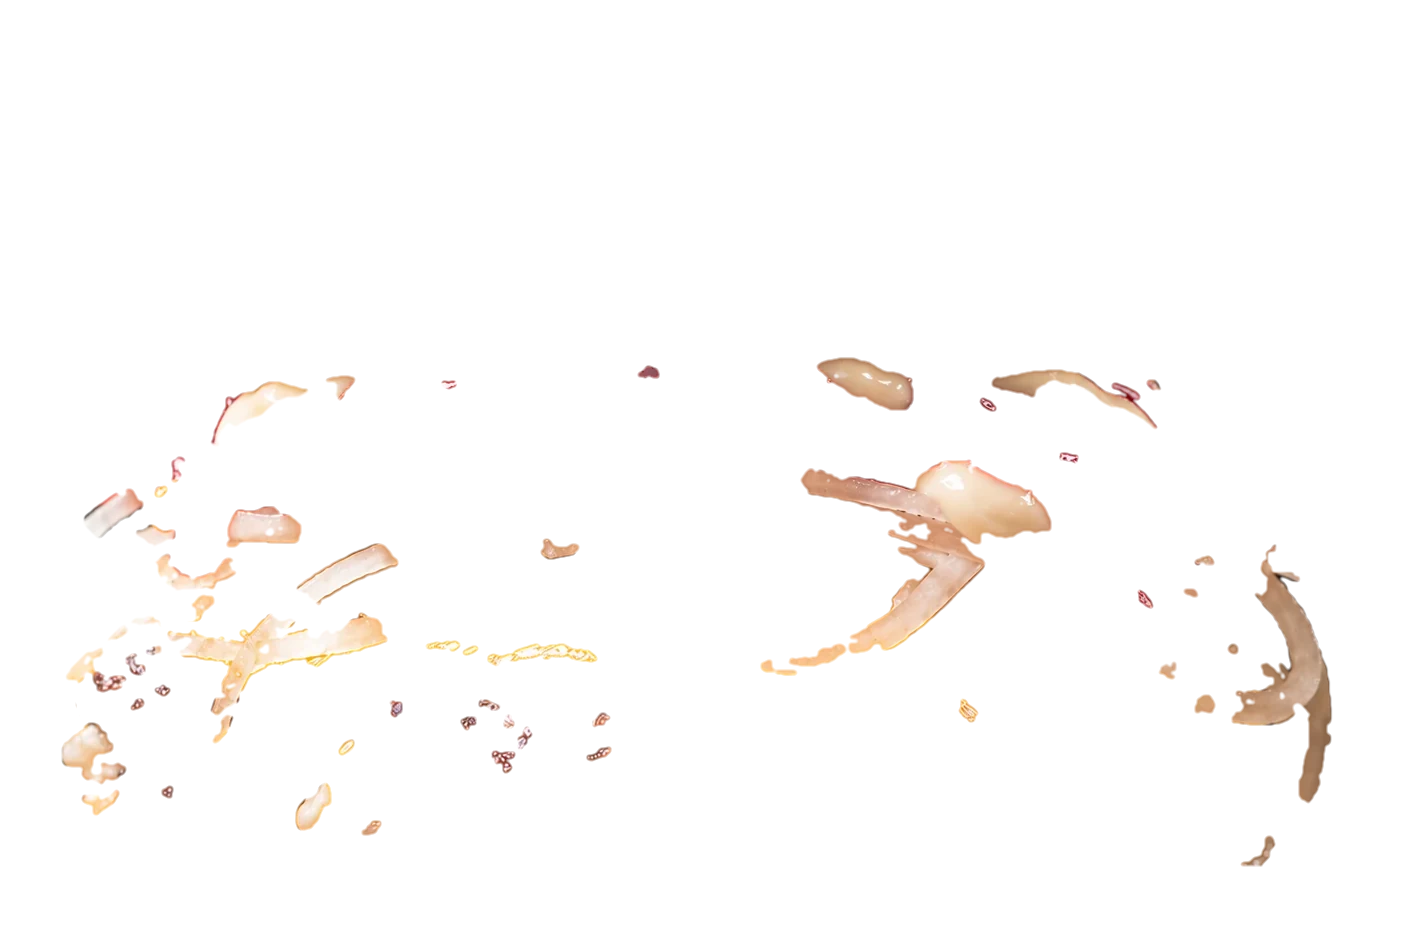
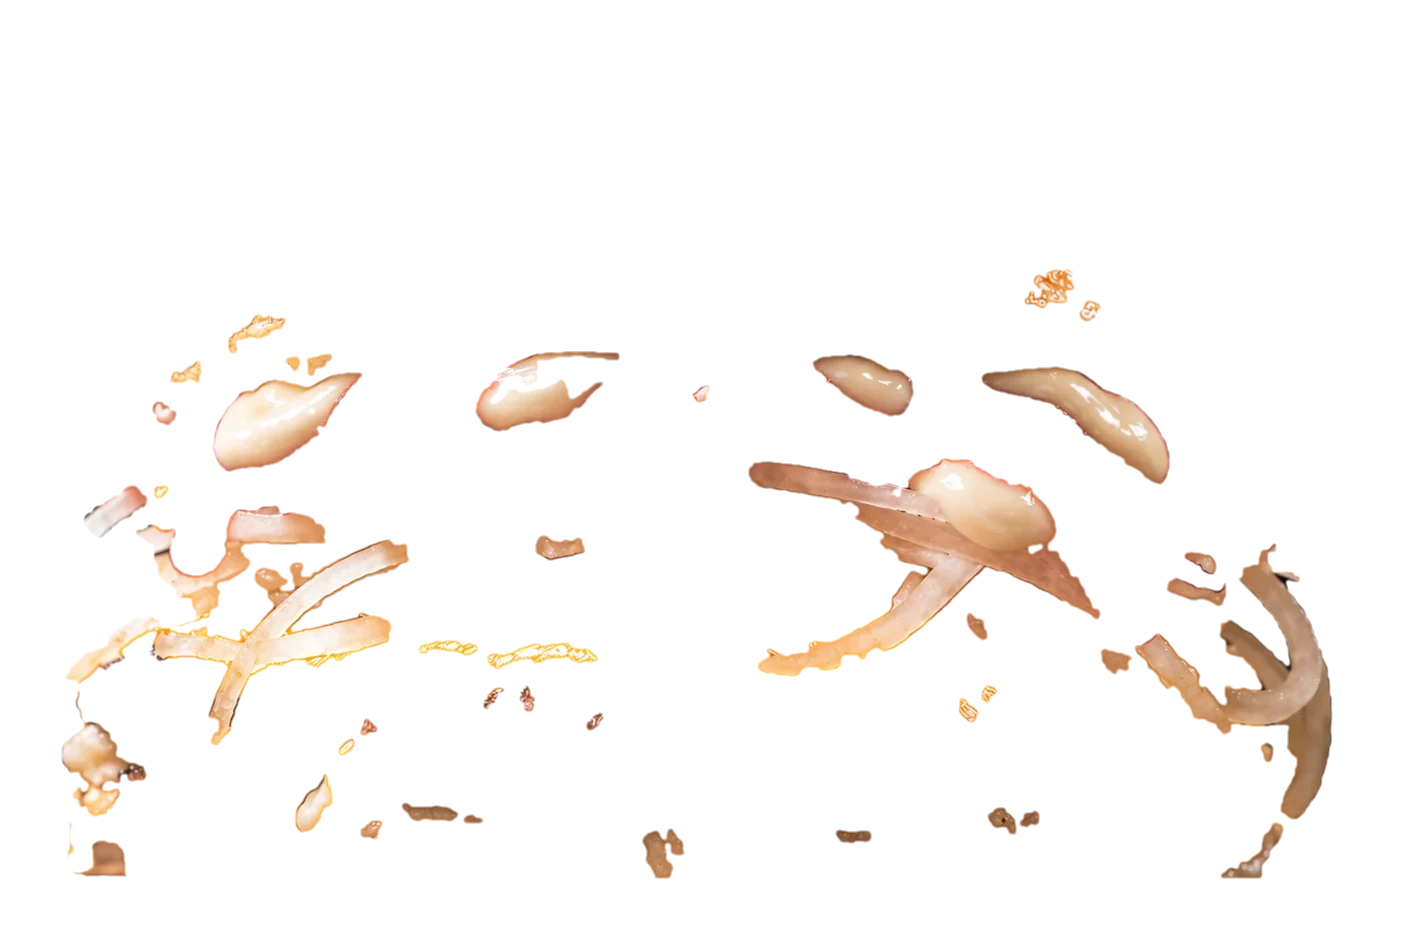
Foto viva: sin reflejos ni particulas ambientales, burger mas grande; extraccion real de cheddar, cebolla, lactonesa y ketchup con movimiento propio y resaltado

diff --git a/src/PixiPhotoBurger.jsx b/src/PixiPhotoBurger.jsx
@@ -30,7 +30,13 @@ export const PHOTO_BURGERS = {
       bacon:     { f: 'bacon.png',   at: [0.5, 0.44] },
     },
     // extracción REAL: sprite con los píxeles de la foto base del ingrediente (sale de su lugar de verdad)
-    extract: { cheddar: { f: 'ext-cheddar.webp', pivot: [0.48, 0.714] } },
+    // kind: elastic (queso: se estira y se despega) · light (cebolla: liviana, flota) · sauce (salsa: se retrae)
+    extract: {
+      cheddar:   { f: 'ext-cheddar.webp',   pivot: [0.48, 0.714],  kind: 'elastic' },
+      cebolla:   { f: 'ext-cebolla.webp',   pivot: [0.508, 0.606], kind: 'light' },
+      lactonesa: { f: 'ext-lactonesa.webp', pivot: [0.459, 0.469], kind: 'sauce' },
+      ketchup:   { f: 'ext-ketchup.webp',   pivot: [0.468, 0.492], kind: 'sauce' },
+    },
     steam: { x: 0.5, y: 0.49, w: 0.5 },
     // zonas que reciben el brillo (fracciones de la foto): pan y cheddar
     glints: [{ x: 0.1, y: 0.02, w: 0.8, h: 0.36 }, { x: 0.08, y: 0.63, w: 0.84, h: 0.15 }],
@@ -60,7 +66,10 @@ const removedOf = (cfg, quitados) => {
   return s;
 };
 
-const DW = 300; const DH = 340; const BASE_Y = 282;
+const DW = 300; const DH = 276; const BASE_Y = 250;
+// Partículas y reflejos ambientales (bokeh, polvo, destellos, vapor, brasas, luz que sigue al dedo).
+// Apagados: la burger es la protagonista. Cambiar a true para reactivarlos.
+const AMBIENT = false;
 
 const radial = (stops) => new FillGradient({
   type: 'radial', center: { x: 0.5, y: 0.5 }, innerRadius: 0, outerCenter: { x: 0.5, y: 0.5 }, outerRadius: 0.5,
@@ -229,7 +238,7 @@ function build(st, app, cfg, isLite, host, cleanups) {
   const root = new Container(); app.stage.addChild(root); st.root = root;
 
   const glow = new Graphics().circle(0, 0, 150).fill(radial([[0, 'rgba(255,170,60,0.5)'], [0.6, 'rgba(255,120,30,0.14)'], [1, 'rgba(255,100,20,0)']]));
-  glow.position.set(DW / 2, 190); glow.blendMode = 'add'; root.addChild(glow); st.glow = glow;
+  glow.position.set(DW / 2, 140); glow.blendMode = 'add'; root.addChild(glow); st.glow = glow;
 
   // plato oscuro con brillo en el borde (la burger apoya sobre él)
   const plate = new Graphics();
@@ -242,7 +251,7 @@ function build(st, app, cfg, isLite, host, cleanups) {
   // bokeh que flota detrás (reemplaza al fondo de la foto)
   const bokehTex = app.renderer.generateTexture(new Graphics().circle(0, 0, 20).fill(radial([[0, 'rgba(255,214,140,0.85)'], [0.7, 'rgba(255,170,70,0.35)'], [1, 'rgba(255,150,50,0)']])));
   st.bokeh = [];
-  const BN = isLite ? 7 : 14;
+  const BN = AMBIENT ? (isLite ? 7 : 14) : 0;
   for (let i = 0; i < BN; i++) {
     const sp = new Sprite(bokehTex); sp.anchor.set(0.5); sp.blendMode = 'add'; root.addChildAt(sp, 1);
     st.bokeh.push({ sp, x: Math.random() * DW, y: 20 + Math.random() * 230, z: 0.4 + Math.random() * 1.0, ph: Math.random() * 6, sz: 0.5 + Math.random() * 1.2 });
@@ -288,13 +297,13 @@ function build(st, app, cfg, isLite, host, cleanups) {
     gsap.to(glint, { x: DW / 2 + st.photoW / 2 + 10, duration: 1.3, ease: 'power1.inOut' });
     gsap.to(glint, { alpha: 0, duration: 0.3, delay: 1.1 });
   };
-  const sweepTimer = setInterval(sweep, 5200); setTimeout(sweep, 1400);
+  const sweepTimer = AMBIENT ? setInterval(sweep, 5200) : 0; if (AMBIENT) setTimeout(sweep, 1400);
   cleanups.push(() => { clearInterval(sweepTimer); gsap.killTweensOf(glint); });
 
   // vapor
   const steamTex = app.renderer.generateTexture(new Graphics().circle(0, 0, 22).fill(radial([[0, 'rgba(255,255,255,0.5)'], [1, 'rgba(255,255,255,0)']])));
   const steam = new Container(); root.addChild(steam); st.steam = [];
-  const N = isLite ? 4 : 8;
+  const N = AMBIENT ? (isLite ? 4 : 8) : 0;
   for (let i = 0; i < N; i++) {
     const s = new Sprite(steamTex); s.anchor.set(0.5); s.alpha = 0; steam.addChild(s);
     st.steam.push({ s, t: i / N, sp: 0.1 + Math.random() * 0.05, dx: (Math.random() - 0.5), ph: Math.random() * 6 });
@@ -302,7 +311,7 @@ function build(st, app, cfg, isLite, host, cleanups) {
   // brasas
   const emTex = app.renderer.generateTexture(new Graphics().circle(0, 0, 5).fill(radial([[0, 'rgba(255,230,150,1)'], [0.4, 'rgba(255,150,40,0.7)'], [1, 'rgba(255,90,10,0)']])));
   const em = new Container(); root.addChild(em); st.embers = [];
-  const M = isLite ? 5 : 10;
+  const M = AMBIENT ? (isLite ? 5 : 10) : 0;
   for (let i = 0; i < M; i++) {
     const s = new Sprite(emTex); s.anchor.set(0.5); s.blendMode = 'add'; s.alpha = 0; em.addChild(s);
     st.embers.push({ s, t: Math.random(), sp: 0.1 + Math.random() * 0.12, x0: DW / 2 + (Math.random() - 0.5) * 230, sz: 0.4 + Math.random() * 0.6, ph: Math.random() * 6 });
@@ -317,12 +326,12 @@ function build(st, app, cfg, isLite, host, cleanups) {
   const dotTex = app.renderer.generateTexture(new Graphics().circle(0, 0, 4).fill(radial([[0, 'rgba(255,225,150,1)'], [1, 'rgba(255,190,70,0)']])));
   const fxTop = new Container(); root.addChild(fxTop); st.fxTop = fxTop;
   st.dust = [];
-  const DN = isLite ? 10 : 22;
+  const DN = AMBIENT ? (isLite ? 10 : 22) : 0;
   for (let i = 0; i < DN; i++) {
     const sp = new Sprite(dotTex); sp.anchor.set(0.5); sp.blendMode = 'add'; sp.alpha = 0; fxTop.addChild(sp);
     st.dust.push({ sp, x: Math.random(), y: Math.random(), vx: (Math.random() - 0.5) * 0.02, vy: -0.01 - Math.random() * 0.03, ph: Math.random() * 6, sz: 0.35 + Math.random() * 0.8 });
   }
-  st.twinkles = (cfg.stars || []).map(([fx, fy], i) => {
+  st.twinkles = (AMBIENT ? (cfg.stars || []) : []).map(([fx, fy], i) => {
     const sp = new Sprite(starTex); sp.anchor.set(0.5); sp.blendMode = 'add'; sp.alpha = 0; fxTop.addChild(sp);
     return { sp, fx, fy, ph: i * 1.7 };
   });
@@ -397,14 +406,14 @@ function build(st, app, cfg, isLite, host, cleanups) {
         q.sp.x = left + q.fx * W; q.sp.y = top + q.fy * H; q.sp.alpha = v; q.sp.scale.set(0.35 + v * 0.9); q.sp.rotation = Math.sin(t * 0.7 + q.ph) * 0.3;
       });
       st.spot.x = DW / 2 + st.parallax.x * W * 0.42; st.spot.y = top + H * (0.45 + st.parallax.y * 0.35);
-      st.spot.alpha = 0.4 + st.flare * 0.5;
+      st.spot.alpha = AMBIENT ? 0.4 + st.flare * 0.5 : 0;
     }
     st.bokeh.forEach((b) => {
       b.sp.x = b.x + Math.sin(t * 0.25 + b.ph) * 10 - st.parallax.x * 10 * b.z; b.sp.y = b.y + Math.cos(t * 0.2 + b.ph) * 6 - st.parallax.y * 6 * b.z;
       b.sp.scale.set(b.sz * (1 + Math.sin(t * 0.8 + b.ph) * 0.08)); b.sp.alpha = (0.28 + 0.2 * Math.sin(t * 0.6 + b.ph)) * (0.6 + st.flare * 0.5);
     });
     st.flare = Math.max(0, st.flare - dt * 1.5);
-    glow.alpha = 0.75 + Math.sin(t * 1.6) * 0.1 + st.flare * 0.35;
+    glow.alpha = (AMBIENT ? 0.75 : 0.42) + Math.sin(t * 1.6) * 0.06 + st.flare * 0.25;
     const sb = st.steamBase || { x: DW / 2, y: 140, w: 120 };
     st.steam.forEach((p) => {
       p.t += dt * p.sp * 3; if (p.t > 1) { p.t = 0; p.dx = Math.random() - 0.5; }
@@ -511,38 +520,68 @@ async function extractMove(st, cfg, key, removing, res) {
   if (!st.ready) return true;
   const W = st.photoW; const H = st.photoH;
   const P = { x: (def.pivot[0] - 0.5) * W, y: -(1 - def.pivot[1]) * H };
-  const ec = new Container(); ec.position.set(P.x, P.y);
-  const sp = new Sprite(tex); sp.anchor.set(0.5, 1); sp.width = W; sp.height = H; sp.position.set(-P.x, -P.y);
-  ec.addChild(sp); st.wrap.addChild(ec);
+  const mk = () => {
+    const c = new Container(); c.position.set(P.x, P.y);
+    const sp = new Sprite(tex); sp.anchor.set(0.5, 1); sp.width = W; sp.height = H; sp.position.set(-P.x, -P.y);
+    c.addChild(sp); return { c, sp };
+  };
+  const { c: ec } = mk(); st.wrap.addChild(ec);
+  // 1) selección: contorno dorado que "enciende" el ingrediente
+  const hl = mk(); hl.sp.tint = 0xffd27a; hl.c.blendMode = 'add'; hl.c.alpha = 0; st.wrap.addChild(hl.c);
   const rx = DW / 2 + P.x; const ry = BASE_Y + P.y;
   const baseTex = st.ok.get('base');
-  const fin = () => { try { ec.destroy({ children: true }); } catch { /* noop */ } };
+  const fin = () => { try { ec.destroy({ children: true }); hl.c.destroy({ children: true }); } catch { /* noop */ } };
+  const kind = def.kind || 'elastic';
   await new Promise((resolve) => {
     if (removing) {
-      // la foto "sin ingrediente" queda debajo; el sprite real se despega y se va
+      // la foto "sin ingrediente" queda debajo; el sprite real se despega
       setPhoto(st, st.spA, res.tex); st.spA.alpha = 1; st.spB.alpha = 0;
       const tl = gsap.timeline({ onComplete: () => { fin(); resolve(); } });
-      tl.to(ec.scale, { x: 0.99, y: 1.1, duration: 0.14, ease: 'power2.out' }, 0)          // se estira antes de soltarse
-        .to(ec, { y: P.y - 8, duration: 0.14, ease: 'power2.out' }, 0)
-        .to(ec, { y: P.y - 50, rotation: -0.06, duration: 0.55, ease: 'power3.out' }, 0.12)  // sube en arco
-        .to(ec.scale, { x: 1.05, y: 0.92, duration: 0.4, ease: 'power1.out' }, 0.2)
-        .to(ec, { alpha: 0, duration: 0.3, ease: 'power1.in' }, 0.36)                         // se desvanece
-        .add(() => magicBurst(st, rx, ry - 30, 0.55), 0.38)
-        .to(st.sq, { x: 1.014, y: 0.986, duration: 0.12, ease: 'power2.out' }, 0.2)           // la burger se acomoda
-        .to(st.sq, { x: 1, y: 1, duration: 0.5, ease: 'elastic.out(1,0.5)' }, 0.32);
+      tl.to(hl.c, { alpha: 0.85, duration: 0.09, ease: 'power1.out' }, 0)
+        .to(hl.c.scale, { x: 1.012, y: 1.012, duration: 0.2 }, 0)
+        .to(hl.c, { alpha: 0, duration: 0.22, ease: 'power1.in' }, 0.09);
+      if (kind === 'elastic') {
+        tl.to(ec.scale, { x: 0.99, y: 1.11, duration: 0.15, ease: 'power2.out' }, 0.06)       // se estira antes de soltarse
+          .to(ec, { y: P.y - 7, duration: 0.15, ease: 'power2.out' }, 0.06)
+          .to(ec, { y: P.y - 54, rotation: -0.06, duration: 0.6, ease: 'power3.out' }, 0.2)
+          .to(ec.scale, { x: 1.06, y: 0.9, duration: 0.42, ease: 'power1.out' }, 0.26)
+          .to(ec, { alpha: 0, duration: 0.32, ease: 'power1.in' }, 0.44);
+      } else if (kind === 'light') {
+        tl.to(ec, { y: P.y - 5, duration: 0.12, ease: 'power2.out' }, 0.06)
+          .to(ec, { y: P.y - 40, x: P.x + 14, duration: 0.7, ease: 'power2.out' }, 0.16)
+          .to(ec, { rotation: 0.1, duration: 0.35, ease: 'sine.inOut', yoyo: true, repeat: 1 }, 0.16)   // aletea
+          .to(ec.scale, { x: 1.05, y: 1.05, duration: 0.6 }, 0.16)
+          .to(ec, { alpha: 0, duration: 0.36, ease: 'power1.in' }, 0.42);
+      } else { // sauce: la salsa se retrae sobre sí misma
+        tl.to(ec.scale, { x: 1.04, y: 1.18, duration: 0.1, ease: 'power2.out' }, 0.06)
+          .to(ec.scale, { x: 0.55, y: 0.3, duration: 0.4, ease: 'power3.in' }, 0.16)
+          .to(ec, { y: P.y + 5, alpha: 0, duration: 0.34, ease: 'power1.in' }, 0.24);
+      }
+      tl.add(() => magicBurst(st, rx, ry - (kind === 'sauce' ? 6 : 28), 0.5), 0.4)
+        .to(st.sq, { x: 1.014, y: 0.986, duration: 0.12, ease: 'power2.out' }, 0.22)          // la burger se acomoda
+        .to(st.sq, { x: 1, y: 1, duration: 0.5, ease: 'elastic.out(1,0.5)' }, 0.34);
     } else {
-      // volver a poner: el sprite cae desde arriba a su lugar exacto
-      ec.alpha = 0; ec.y = P.y - 50; ec.rotation = -0.06; ec.scale.set(1.05, 0.92);
+      // volver a poner: el sprite vuelve a su lugar exacto
+      ec.alpha = 0;
       const tl = gsap.timeline({ onComplete: () => {
         if (baseTex) { setPhoto(st, st.spA, baseTex); st.spA.alpha = 1; st.spB.alpha = 0; }
         fin(); resolve();
       } });
-      tl.to(ec, { alpha: 1, duration: 0.18 }, 0)
-        .to(ec, { y: P.y, rotation: 0, duration: 0.42, ease: 'power2.in' }, 0)
-        .to(ec.scale, { x: 1, y: 1, duration: 0.4, ease: 'power1.in' }, 0)
-        .add(() => magicBurst(st, rx, ry - 20, 0.55), 0.4)
+      if (kind === 'sauce') {
+        ec.scale.set(0.55, 0.3);
+        tl.to(ec, { alpha: 1, duration: 0.14 }, 0)
+          .to(ec.scale, { x: 1.06, y: 1.1, duration: 0.3, ease: 'power2.out' }, 0)
+          .to(ec.scale, { x: 1, y: 1, duration: 0.25, ease: 'elastic.out(1,0.5)' }, 0.3);
+      } else {
+        ec.y = P.y - (kind === 'light' ? 40 : 54); ec.rotation = kind === 'light' ? 0.1 : -0.06; ec.scale.set(1.05, 0.92);
+        tl.to(ec, { alpha: 1, duration: 0.18 }, 0)
+          .to(ec, { y: P.y, rotation: 0, duration: kind === 'light' ? 0.5 : 0.42, ease: kind === 'light' ? 'power2.out' : 'power2.in' }, 0)
+          .to(ec.scale, { x: 1, y: 1, duration: 0.4, ease: 'power1.in' }, 0);
+      }
+      tl.add(() => magicBurst(st, rx, ry - 10, 0.5), 0.4)
         .to(st.sq, { x: 1.03, y: 0.97, duration: 0.1, ease: 'power2.out' }, 0.4)
-        .to(st.sq, { x: 1, y: 1, duration: 0.5, ease: 'elastic.out(1,0.45)' }, 0.5);
+        .to(st.sq, { x: 1, y: 1, duration: 0.5, ease: 'elastic.out(1,0.45)' }, 0.5)
+        .to(hl.c, { alpha: 0.5, duration: 0.08 }, 0.42).to(hl.c, { alpha: 0, duration: 0.25 }, 0.5);
     }
   });
   st.shown = res.name;

diff --git a/fotos-burger-src/extraer_ingredientes.py b/fotos-burger-src/extraer_ingredientes.py
@@ -10,10 +10,10 @@ H,W=base.shape[:2]
 hsv=cv2.cvtColor(base,cv2.COLOR_BGR2HSV)
 Hh,Ss,Vv=hsv[...,0].astype(int),hsv[...,1].astype(int),hsv[...,2].astype(int)
 yy=np.arange(H)[:,None]*np.ones((1,W))
-def run(key,variant,colormask,y0,y1,minarea,grow,use_diff=True):
+def run(key,variant,colormask,y0,y1,minarea,grow,use_diff=True,dthr=26):
     v=cv2.imread(O+variant+'.webp').astype(np.float32)
     d=cv2.GaussianBlur(np.abs(basef-v).max(axis=2),(0,0),1.0)
-    m=((d>26) if use_diff else True)&colormask&(yy>H*y0)&(yy<H*y1)
+    m=((d>dthr) if use_diff else True)&colormask&(yy>H*y0)&(yy<H*y1)
     m=m.astype(np.uint8)
     n,lab,st,_=cv2.connectedComponentsWithStats(m)
     keep=np.zeros_like(m)
@@ -31,9 +31,12 @@ def run(key,variant,colormask,y0,y1,minarea,grow,use_diff=True):
 # cheddar: naranja-amarillo saturado
 cheddar=((Hh>=8)&(Hh<=32)&(Ss>=150)&(Vv>=150))
 run('cheddar','sin-cheddar',cheddar,0.50,0.92,400,9)
-# cebolla: blanca/crema en la base y que YA NO está blanca en la variante (la mayonesa se queda en las dos)
-v2=cv2.cvtColor(cv2.imread(O+'sin-cebolla.webp'),cv2.COLOR_BGR2HSV)
-white_v=((v2[...,1]<120)&(v2[...,2]>=135)).astype(np.uint8)
-white_v=cv2.dilate(white_v,np.ones((5,5),np.uint8))
-cebolla=((Ss<120)&(Vv>=135)&(white_v==0))
-run('cebolla','sin-cebolla',cebolla|False,0.28,0.86,40,5,use_diff=False)
+# cebolla: crema/blanca (no roja, no naranja fuerte) y que cambia al sacarla
+cebolla=((Ss<150)&(Vv>=115)&~((Hh<8)|(Hh>165))&~((Ss>=150)&(Hh<=32)))
+run('cebolla','sin-cebolla',cebolla,0.33,0.87,60,7,dthr=14)
+# lactonesa: crema clara brillante
+lacto=((Ss<110)&(Vv>=170))
+run('lactonesa','sin-lactonesa',lacto,0.28,0.62,80,7,dthr=20)
+# ketchup: rojo vivo brillante
+ketch=(((Hh<=8)|(Hh>=165))&(Ss>=150)&(Vv>=120))
+run('ketchup','sin-ketchup',ketch,0.28,0.62,60,7,dthr=20)
